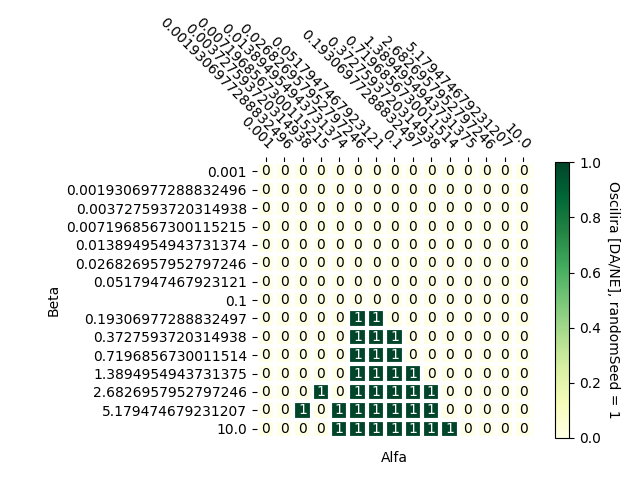
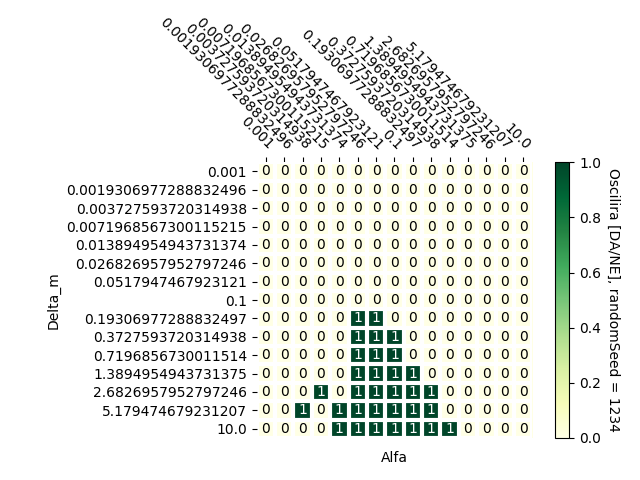
spremenjene labele

Changed region(s): [[0.9375, 0.3438, 0.9688, 0.9062], [0.0625, 0.5625, 0.0938, 0.6875]]

diff --git a/Seminar 2/analiza_odvisnosti.py b/Seminar 2/analiza_odvisnosti.py
@@ -6,7 +6,7 @@ import time
 import represilator as rep
 from image_annotated_heatmap import annotate_heatmap, heatmap
 
-def makePlotFromData(filename, numberOfSamples=1, randomSeed = 1):
+def makePlotFromData(filename, numberOfSamples=1, randomSeed = 1, labelx="", labely=""):
 
     filenameChanged = filename + ".txt"
     file = open(filenameChanged, "r")
@@ -35,8 +35,8 @@ def makePlotFromData(filename, numberOfSamples=1, randomSeed = 1):
     texts = annotate_heatmap(im, valfmt="{x:d}")
 
     fig.tight_layout()
-    plt.ylabel("Beta")
-    plt.xlabel("Alfa")
+    plt.xlabel(labelx)
+    plt.ylabel(labely)
     plt.show()
 
 
@@ -221,7 +221,9 @@ if __name__ == "__main__":
     filename = "results-k-params/443-15" #WITHOUT TXT!
     samples = 15
     randomSeed = 1
-    makePlotFromData(filename, samples, randomSeed)
+    labelaX = "Alfa"
+    labelaY = "Delta_m"
+    makePlotFromData(filename, samples, randomSeed, labelx=labelaX, labely=labelaY)
 
     # run makePlotFromDataMulti with directory to draw all heatmaps for specific run
     # samples = 15
